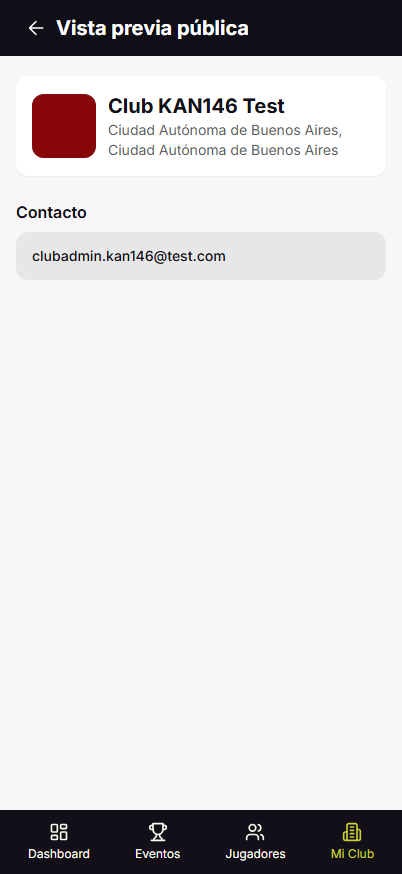
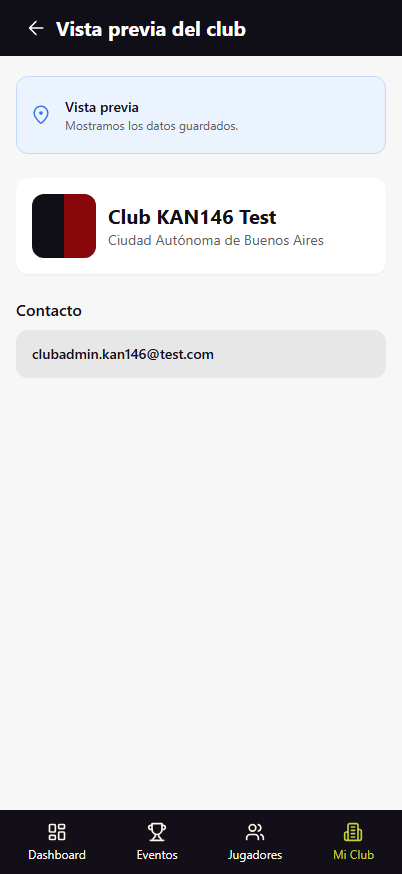
KAN-109: Clarify saved profile preview and optional identity

diff --git a/src/features/club/profile/ClubPublicProfilePage.tsx b/src/features/club/profile/ClubPublicProfilePage.tsx
@@ -8,6 +8,7 @@ import { API_BASE } from '@/lib/constants'
 import { AppBottomNav } from '@/features/app/layout/components/AppBottomNav'
 import { ClubBottomNav } from '../category-policy/ClubBottomNav'
 import { absoluteMedia, framedMediaStyle, parsePublic, type ClubPublicProfile } from './club-profile-model'
+import infoIcon from '@/assets/venues/info.svg'
 
 function whatsappHref(phone: string) {
   const digits = phone.replace(/\D/g, '')
@@ -49,15 +50,20 @@ export function ClubPublicProfilePage({ preview = false }: { preview?: boolean }
   const hasContact = Boolean(profile?.contactPhone || profile?.contactEmail)
   const hasSocial = Boolean(profile?.instagramUrl || profile?.facebookUrl)
   const wa = profile?.contactPhone ? whatsappHref(profile.contactPhone) : null
+  const locationLabel = [...new Set([profile?.city, profile?.countryDivision].filter(Boolean))].join(', ')
 
   return (
     <div className="flex h-dvh flex-col bg-[#f7f7f7] text-[#120f18]">
       <header className="flex h-14 shrink-0 items-center bg-[#100e16] px-4 text-white">
         <button type="button" aria-label="Volver" className="flex h-10 w-10 items-center justify-center" onClick={back}><ArrowBackIcon /></button>
-        <h1 className="text-xl font-bold">{preview ? 'Vista previa pública' : 'Perfil del club'}</h1>
+        <h1 className="text-xl font-bold">{preview ? 'Vista previa del club' : 'Perfil del club'}</h1>
       </header>
       <main className={`min-h-0 flex-1 overflow-y-auto ${(preview || playerShell) ? 'pb-20' : ''}`}>
         <div className="mx-auto max-w-xl px-4 py-5">
+          {preview && <div role="status" className="mb-6 flex min-h-[78px] items-center gap-3 rounded-lg border border-[#c2d8fc] bg-[#ebf3fe] p-3">
+            <img src={infoIcon} alt="" className="h-6 w-6 shrink-0" />
+            <div><p className="text-sm font-semibold">Vista previa</p><p className="text-xs text-[#605e64]">Mostramos los datos guardados.</p></div>
+          </div>}
           {loading ? <p role="status">Cargando perfil…</p>
             : error ? <div className="space-y-3"><p role="alert">No pudimos cargar el perfil.</p><Button onClick={() => void load()}>Reintentar</Button></div>
               : profile && (
@@ -73,13 +79,11 @@ export function ClubPublicProfilePage({ preview = false }: { preview?: boolean }
                         <div className="h-16 w-16 shrink-0 overflow-hidden rounded-xl bg-[#100e16]">
                           <img src={logo} alt="" style={framedMediaStyle(profile.logoFraming, 'contain')} />
                         </div>
-                      ) : (
-                        <div className="h-16 w-16 shrink-0 rounded-xl bg-[#e7e7e8]" aria-hidden />
-                      )}
+                      ) : null}
                       <div className="min-w-0">
                         <h2 className="truncate text-xl font-bold leading-7">{profile.name}</h2>
-                        {(profile.city || profile.countryDivision) && (
-                          <p className="text-sm text-[#605e64]">{[profile.city, profile.countryDivision].filter(Boolean).join(', ')}</p>
+                        {locationLabel && (
+                          <p className="text-sm text-[#605e64]">{locationLabel}</p>
                         )}
                       </div>
                     </div>
